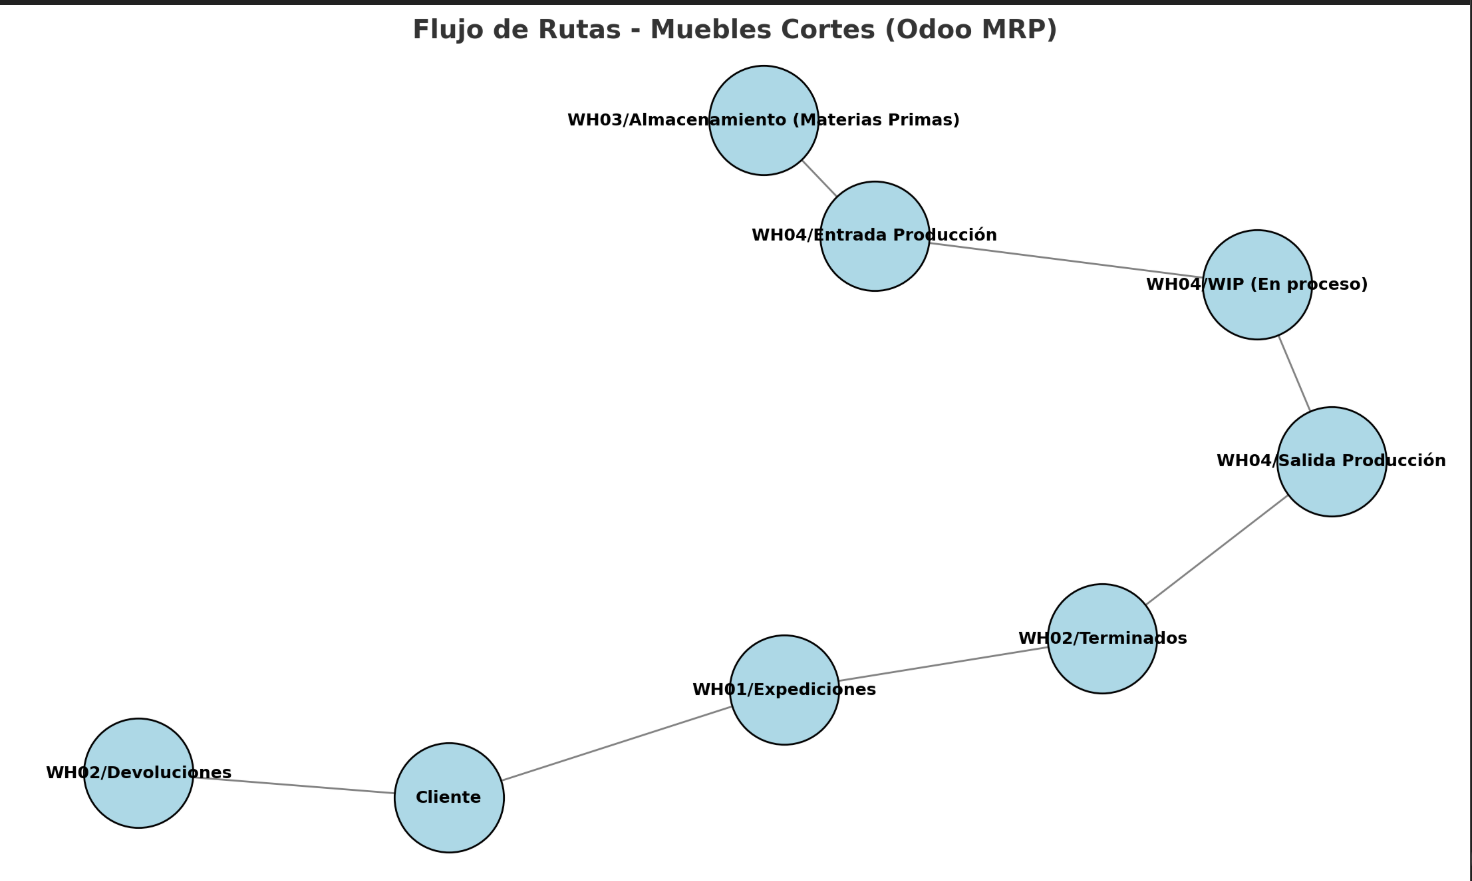
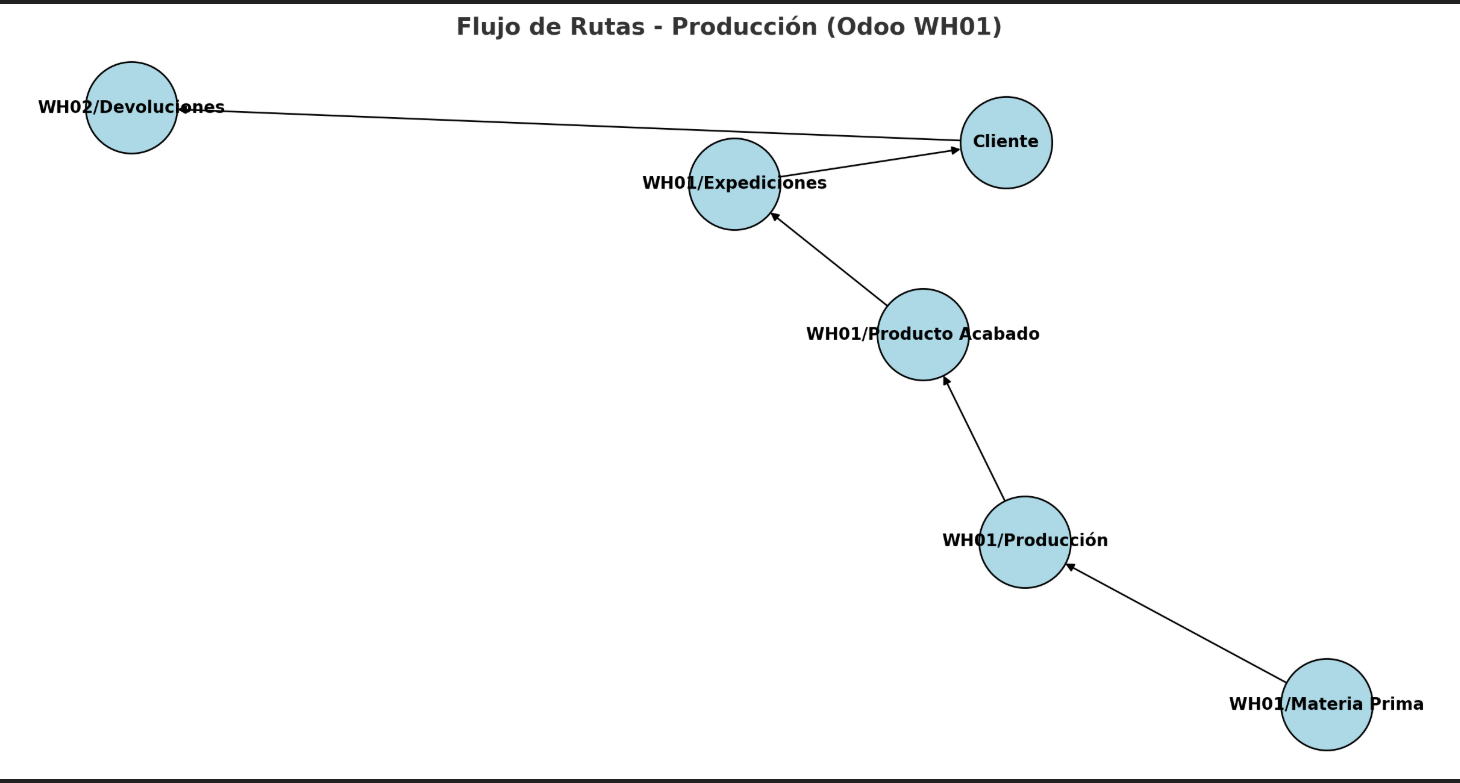
MRP

diff --git a/MRP/mrp.md b/MRP/mrp.md
@@ -21,35 +21,35 @@ Aqui dejo explicado y con un diagrama que he realizado para tener la mayor idea 
 1. Materias Primas → Producción
 
     -Acción: Obtener desde (Pull).
-    -Origen: WH03/Almacenamiento.
-    -Destino: WH04/Entrada a Producción.
+    -Origen: WH01/Materia prima.
+    -Destino: WH01/Producción.
     📌 Permite que al lanzar una orden de producción, Odoo jale materiales desde el almacén de Materias Primas.
 
-2. Producción (Entrada → WIP)
+2. Producción-> Semielaborados
+
+    -Acción: Empujar a .
+    -Origen: WH01/Producción.
+    -Destino: WH01/Semielaborados.
+    📌 Simula que las materias primas  han terminado el proceso de fabricación (semielaborados) y se les envia a su ubicación.
+
+3. Semielaborados -> Producción 
 
     -Acción: Obtener desde.
-    -Origen: WH04/Entrada a Producción.
-    -Destino: WH04/WIP.
-    📌 Simula que las materias primas entran al proceso de fabricación (semielaborados).
+    -Origen: WH01/Semielaborados.
+    -Destino: WH01/Producción.
+    📌 Los productos semielaborados osn llevados a producción para montar un producto acabado.
 
-3. Producción (WIP → Salida Producción)
+4. Producción → Productos acabado
 
-    -Acción: Obtener desde.
-    -Origen: WH04/WIP.
-    -Destino: WH04/Salida de Producción.
-    📌 Una vez terminadas, las piezas salen como producto acabado.
-
-4. Producción → Productos Terminados
-
-    -Acción: Obtener desde.
-    -Origen: WH04/Salida de Producción.
-    -Destino: WH02/Terminados.
+    -Acción: Empujar a .
+    -Origen: WH01/Producción.
+    -Destino: WH01/Producto Acabado.
     📌 Mueve los productos terminados al almacén de terminados listos para venta.
 
-5. Terminados → Expediciones
+5. Producto acabado → Expediciones
 
     -Acción: Obtener desde.
-    -Origen: WH02/Terminados.
+    -Origen: WH01/Producto acabado.
     -Destino: WH01/Expediciones.
     📌 Mueve el producto ya vendido hacia la zona de expedición.
 
@@ -94,11 +94,31 @@ En nuestra configuración del almacen, los semielaborados van en una ubicación 
 
 -A continuación, vamos a proceder a crear las ordenes de fabricación. En las ordenes de fabricación, más adelante vamos a enlazar con los pedidos, marcan cuantas unidades se tienen de fabricar. Más bien dicho, se pasa el pedido a la fabrica para que lo fabriquen.
 
+-Primero de todo vamos a seleccionar el articulo que queremos, alli se nos va a desplegar el BoM.
 ![Captura paso 1](images/MO.png).
+-Siguiente paso cuando vemos que esta todo correcto es darle a confirmar. Nos va a crear un numero de secuencia en automaticamente que va a ser el numero de la orden. 
+-Vamos a seleccionar los componentes y vamos a pulsar si hay disponibilidad 
 ![Captura paso 1](images/MO-1.png).
-![Captura paso 1](images/MO-2.png).
-![Captura paso 1](images/ot-activate.png).
-![Captura paso 1](images/oT-OK.png).
+
+-Una vez hemos visto que hay disponibilidad, vamos a proceder a pulsar planificar, para que se pongan en marcha las Ordenes de trabajo.
+
+-Vamos a la seccion Ordenes-> Ordenes de trabajo. Y allí, vamos a ver todas las ordenes de trabajo que hay. Si pone listo como es nuestro caso, singnifica que ya estan preparados los componentes, es decir que ya estan en la ubicacion preparados para montar. Si no fuera el caso se tendría que realizar un traslado, o la ruta  no estaría bien configurada.
+
+-Le damos a empezar las ordenes y veremos que empieza un contador, es una simulación del tiempo que tarda en hacerse la orden. Como antes en los centros de trabajo hemos establecido que se calcule el timepo de media en base a las ultimas 4.
+![Captura paso 1](images/OT.png).
+-Le damos a listo, ya que estamos en una demo
+
+Una vez hemos terminado con las ordenes, procedemos a las ordenes de fabricación y vamos a ver que pone a cerrar. JUstamente entramos y pulsamos producir todo, así Odoo va a hacer los traslados de stock. Restar materias primas, sumar o restar productos semiterminados y/o sumar productos acabados. 
+
+![Captura paso 1](images/CerrarMO.png).
+
+**Finalmente vamos a comprobar si se ha creado el producto acabado ***
+
+![Captura paso 1](images/Comprobar.png).
+
+
+
+
 
 
 
